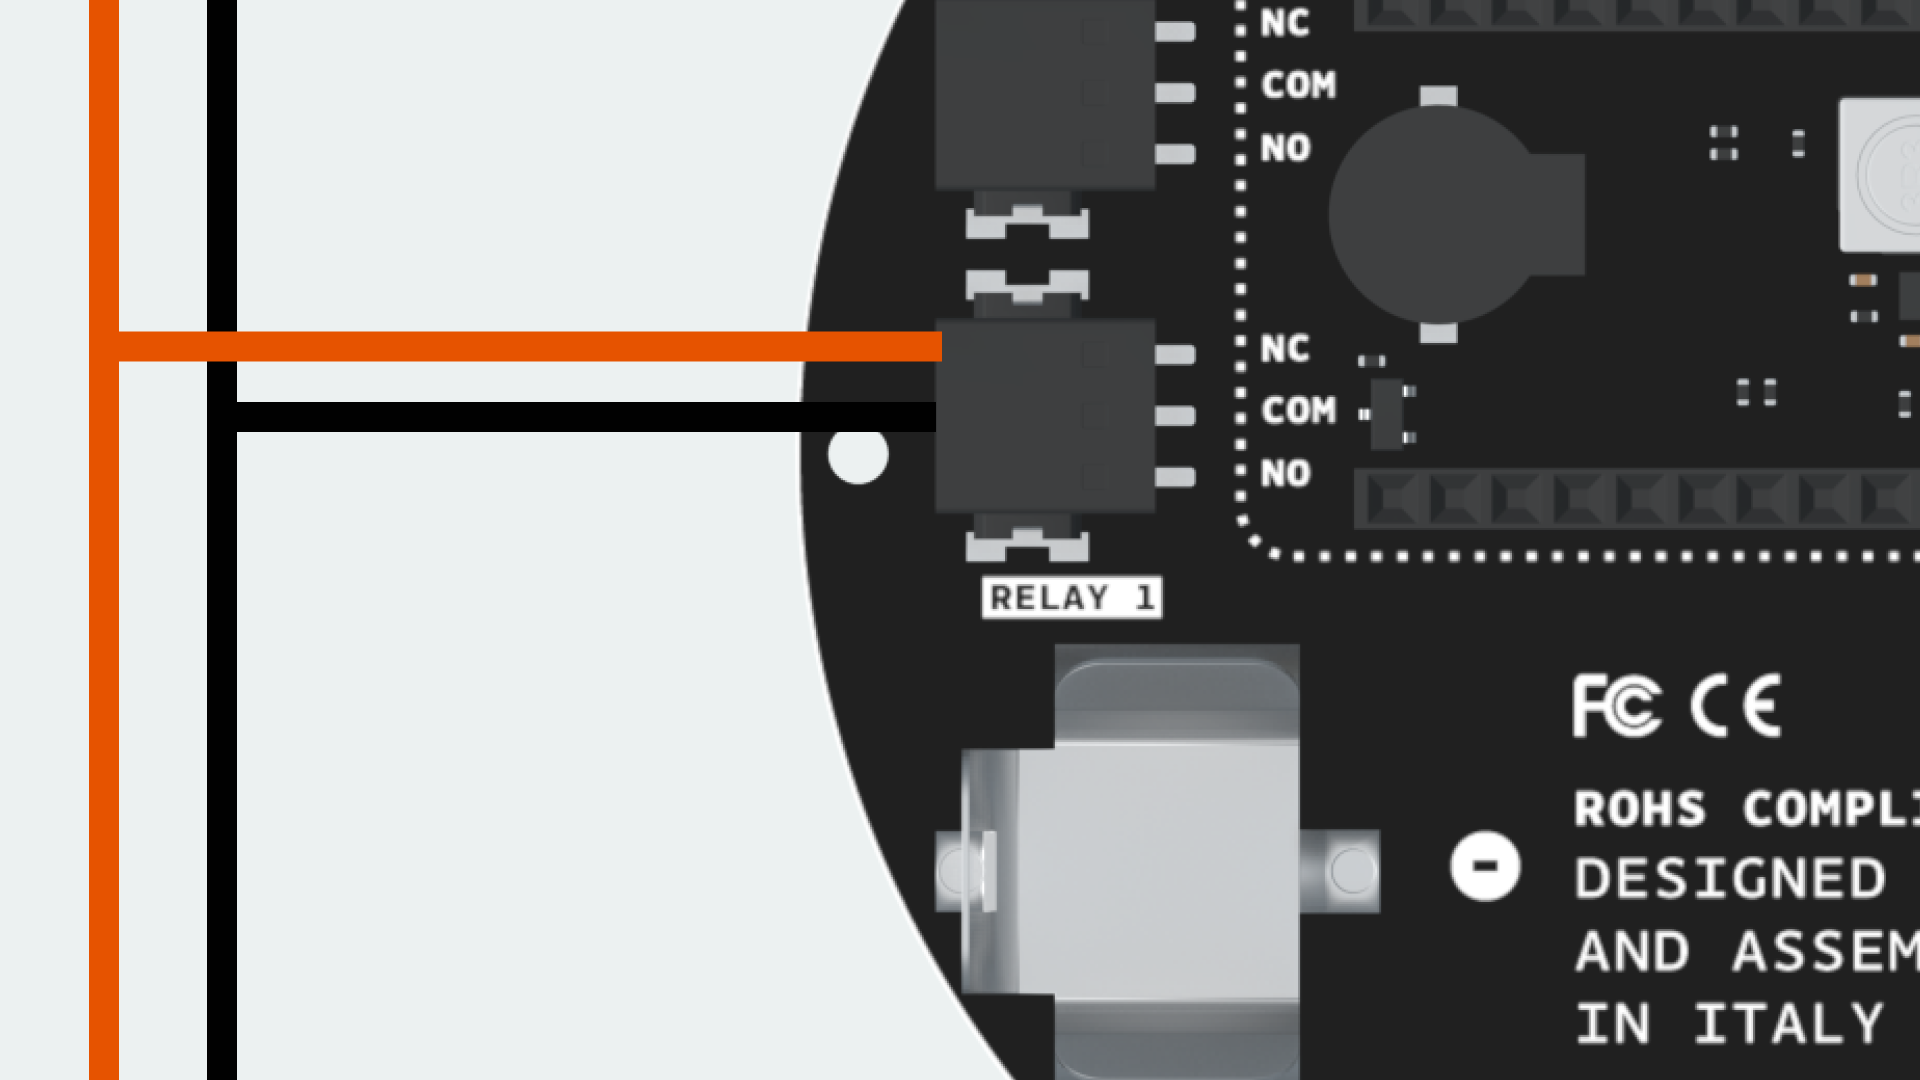
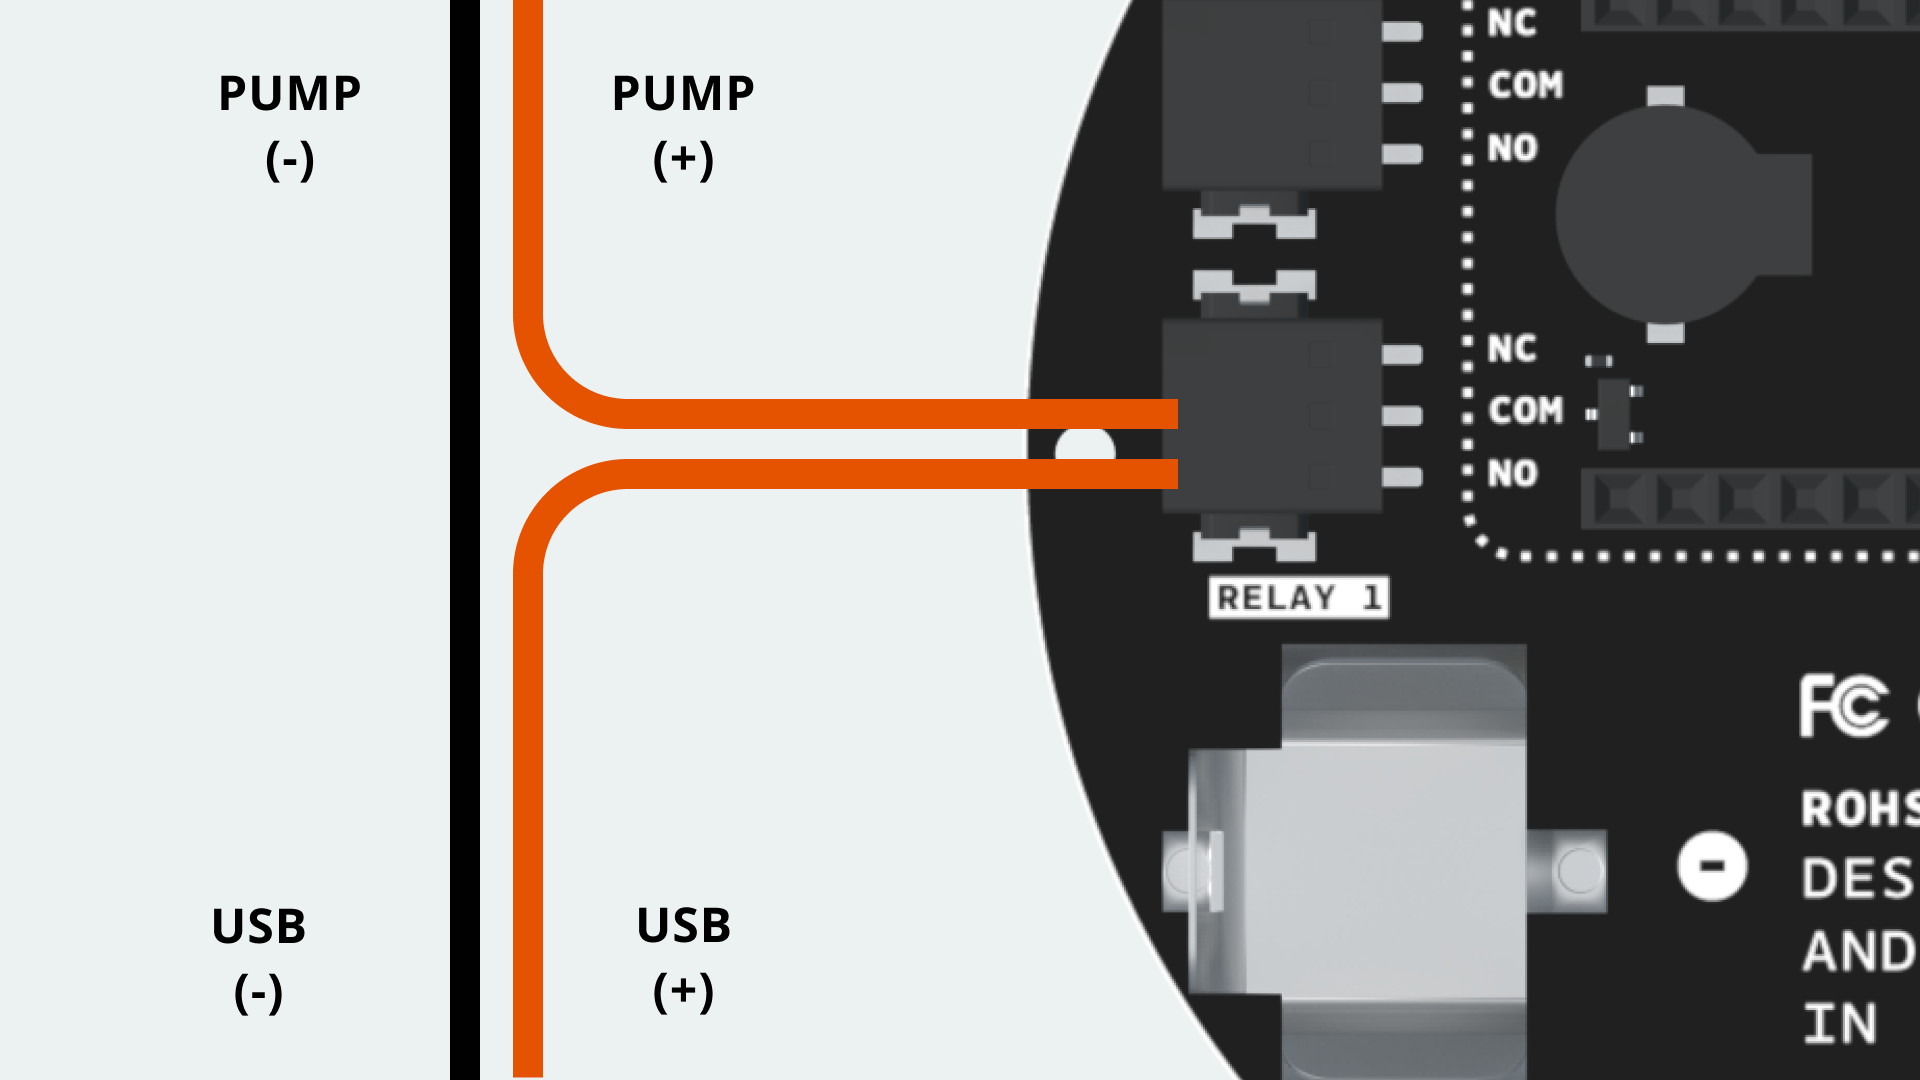
Fix images + description

diff --git a/content/hardware/01.mkr/03.carriers/mkr-iot-carrier/tutorials/smart-garden-project/smart-garden-project.md b/content/hardware/01.mkr/03.carriers/mkr-iot-carrier/tutorials/smart-garden-project/smart-garden-project.md
@@ -12,7 +12,7 @@ Decorating your home with plants is an easy way to bring some life into your day
 
 ## How It Works
 
-The MKR IoT Carrier has built in relay modules that can let you control circuits that are powered separately. In this tutorial we will be using one of the relay modules on the carrier to control a pump that can provide one of your plants with water from the Arduino IoT Cloud thanks to the functionality of the [Arduino MKR WiFi 1010](https://store.arduino.cc/products/arduino-mkr-wifi-1010). 
+The MKR IoT Carrier has built in relays that can let you control circuits that are powered separately. In this tutorial we will be using one of the relay modules on the carrier to control a pump that can provide one of your plants with water from the Arduino IoT Cloud thanks to the functionality of the [Arduino MKR WiFi 1010](https://store.arduino.cc/products/arduino-mkr-wifi-1010). 
 
 We will also connect a soil moisture sensor, and together with the sensors onboard the MKR IoT Carrier, we will create a sophisticated smart garden setup, capable of:
 
@@ -40,11 +40,11 @@ We will also connect a soil moisture sensor, and together with the sensors onboa
 
 ## Hardware & Circuit Assembly
 
-You will connect your Arduino board to the MKR IoT Carrier, the moisture sensor to one of the Grove inputs on the carrier, and the pump to one of the Relays that is on the carrier. The GND wires on the pump and the open USB ended USB cable should be connected directly, while the positive ends of those components should be going into the relay module. 
+Begin by connecting the MKR WiFi 1010 board to the MKR IoT Carrier. Then, we need to connect the moisture sensor via a grove cable to the "A6" connector.
 
-Start by placing the Arduino MKR WiFi 1010 on the MKR IoT Carrier. Then connect the soil moisture sensor to the Grove connector labelled "A6". 
+From the open ended USB cable, connect the positive wire (+)directly to relay 1 on the carrier, labelled "NO" (normally open). Connect the negative wire (-) together with the pump's negative wire. 
 
-The pump is powered separately from the Arduino board, and will be toggled on and off using the relay module that is on the MKR IoT Carrier. You will want to take the positive ends, which are most often red cables, of the submersible pump, and the open ended USB cable, and feed one of them into the relay port that is labelled "COM", and the other into the relay port labelled "NC". The negative ends, which are most often black, need to be connected to each other.
+Finally, connect the pump's positive wire, to the "COM" (common) pin on the relay. As a result, you have created a circuit that can be switched on/off via a relay. See next section for the full circuit.
 
 ### Circuit
 
@@ -52,7 +52,7 @@ Below is the complete circuit for this setup.
 
 ![Circuit for this project.](assets/circuit.png)
 
-As seen in the image below, positive ends are connected to the **"NC"** connector, while the negative ends are connected to the **"COM"** connector.
+To connect the wires to the relay, see the image below:
 
 ![Connecting the wires to relay 1.](assets/relay-connection.png)
 
